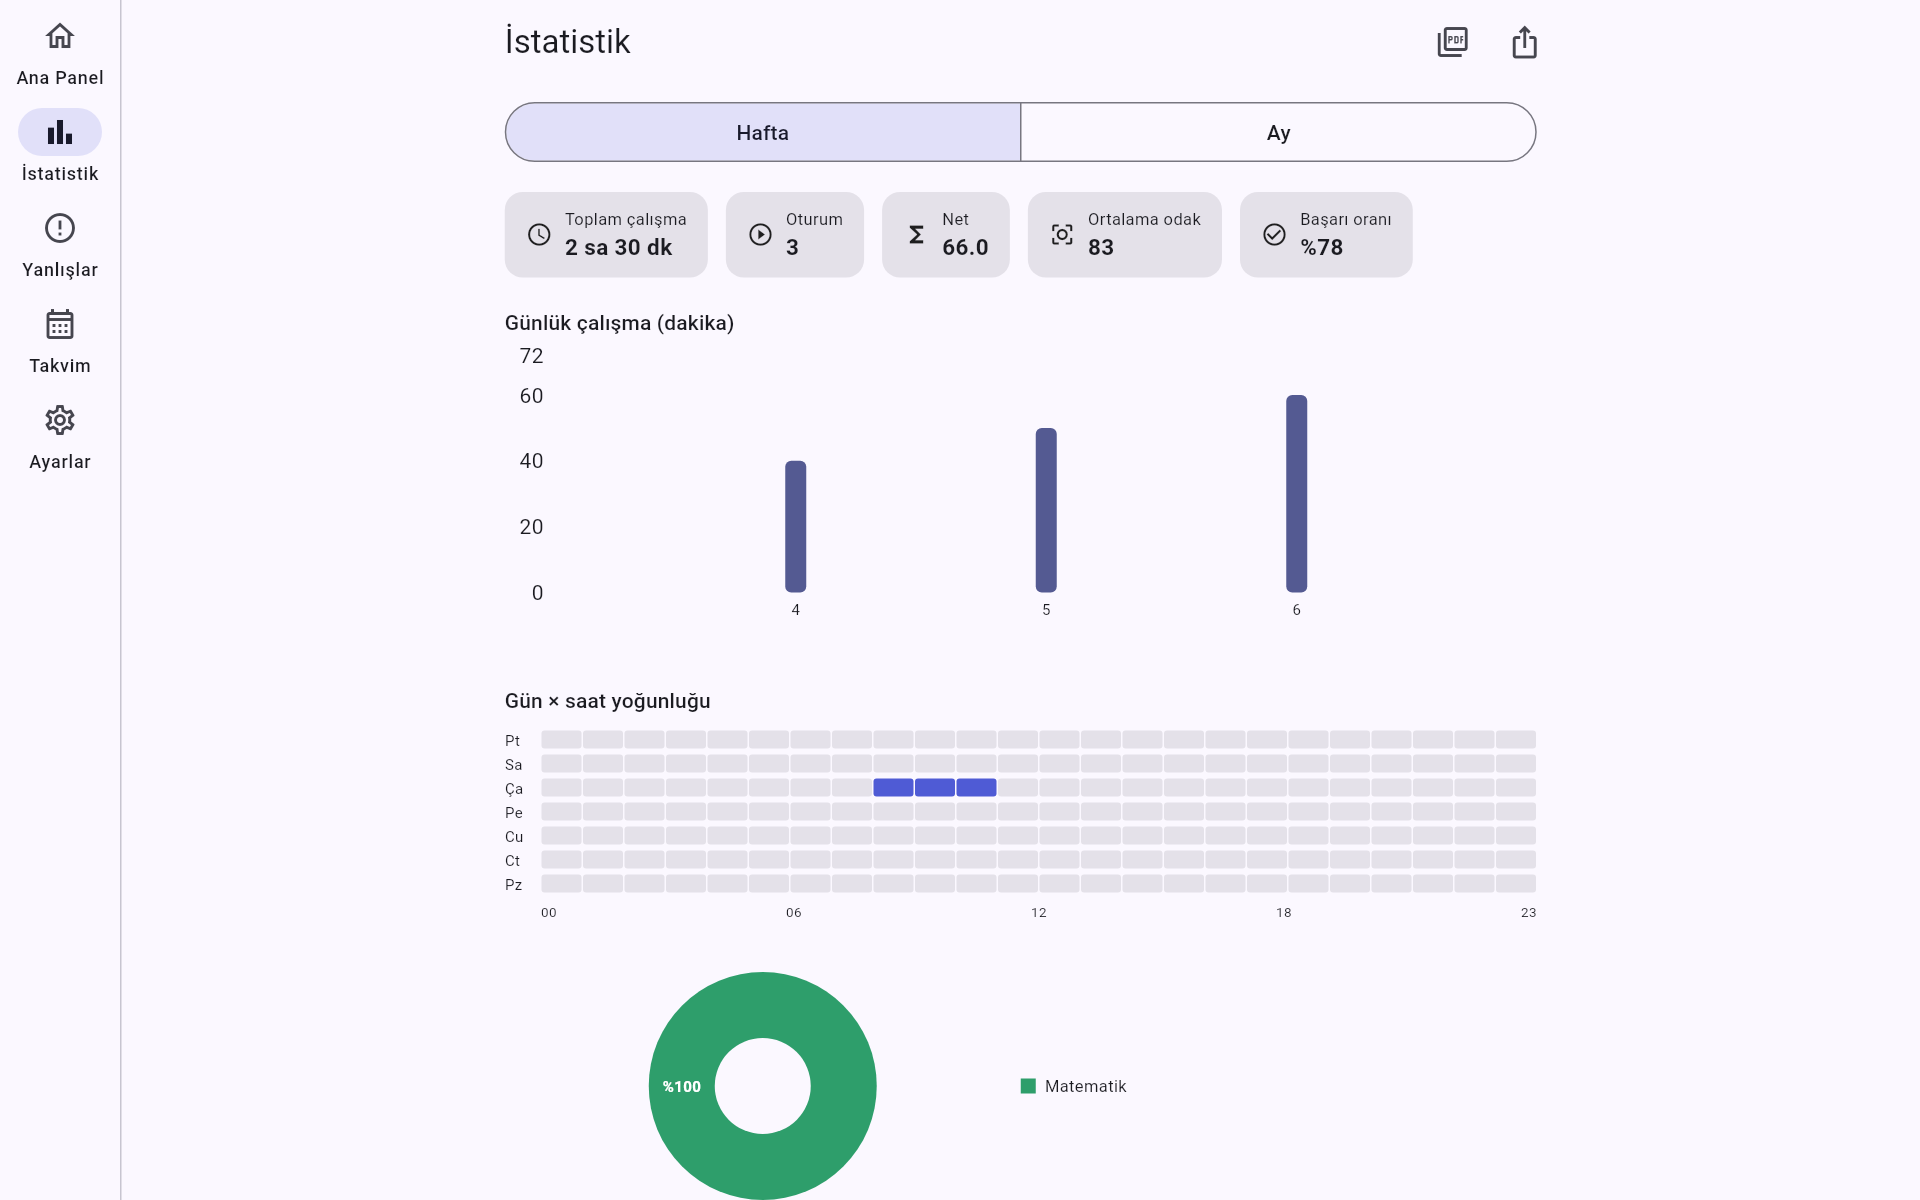
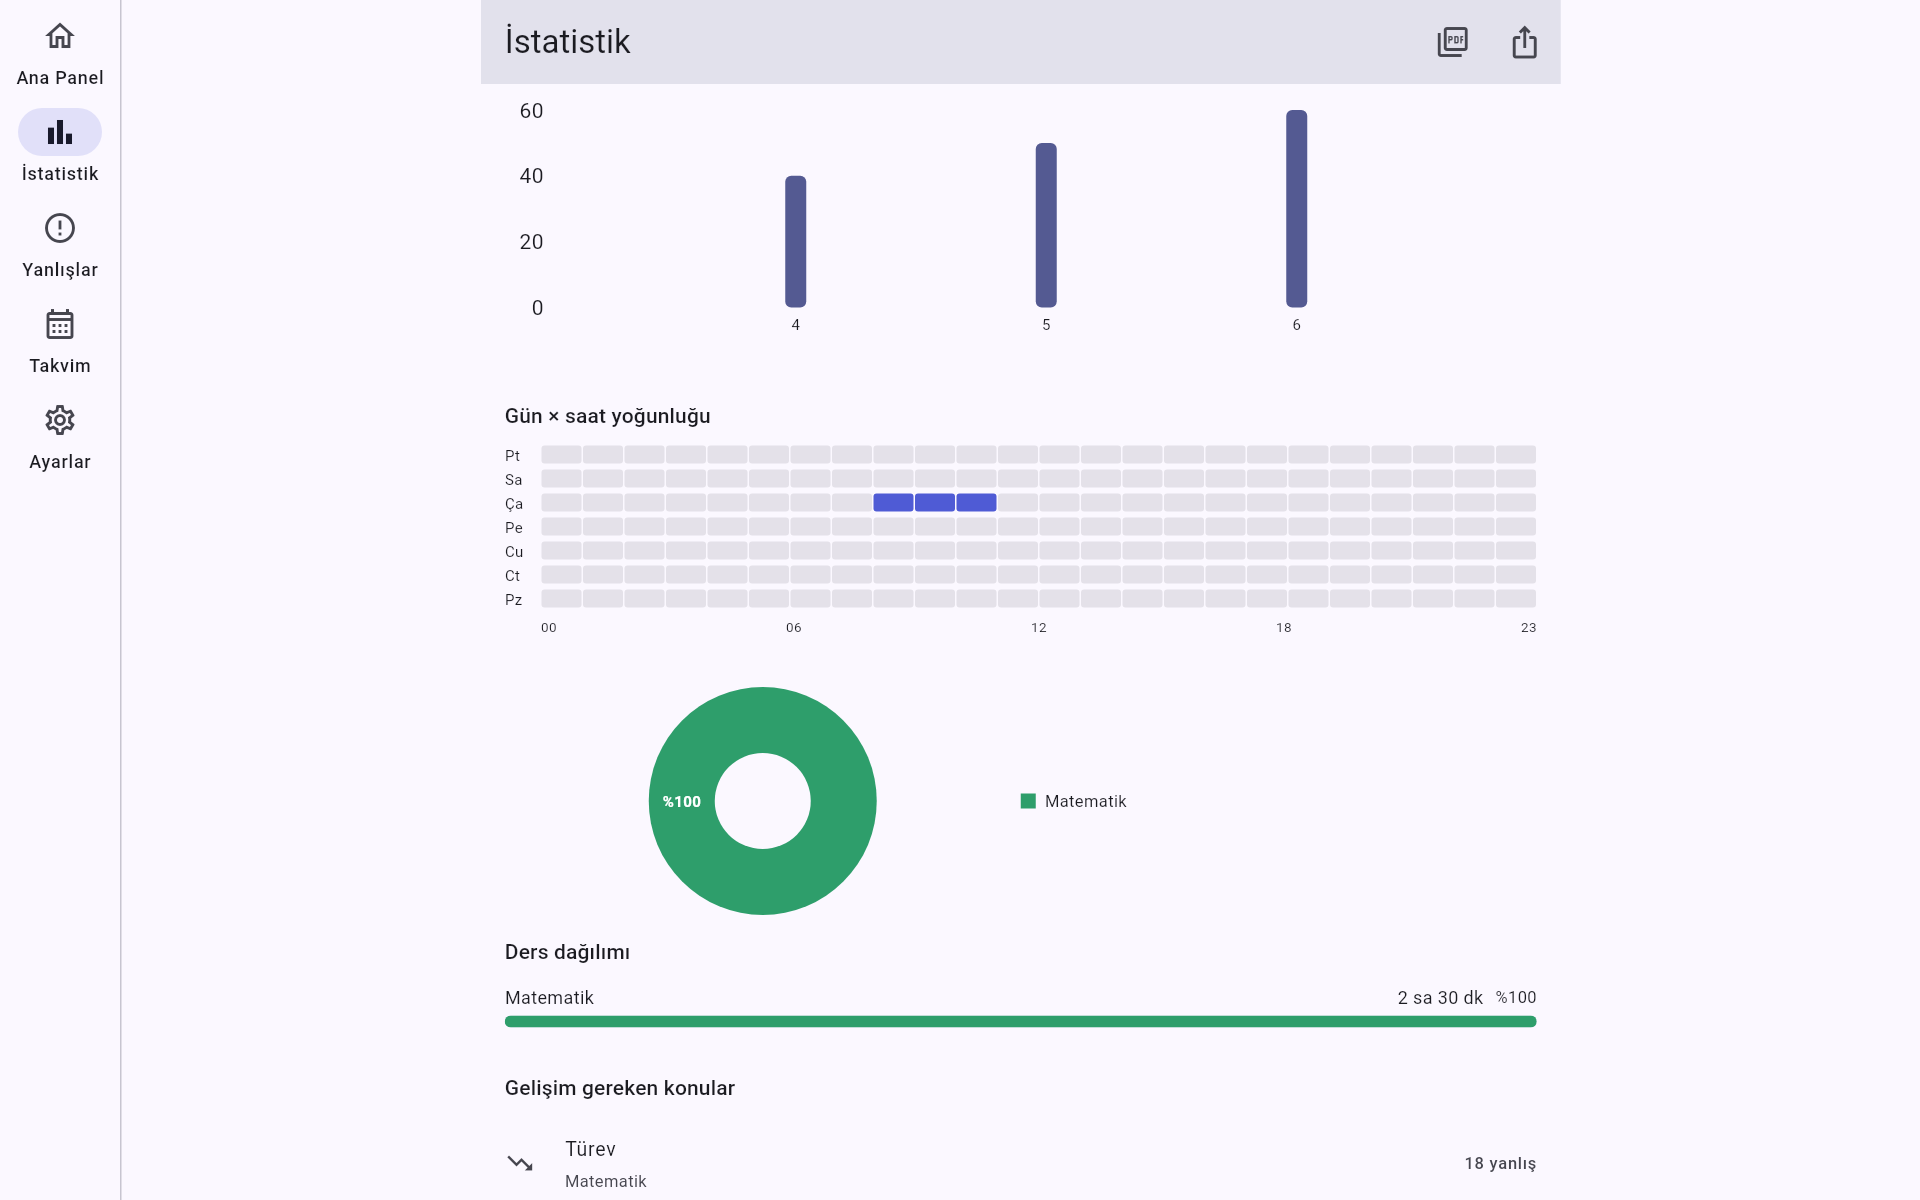
tablet_2: halka grafigi tam cerceveye alindi
Vitrin gorselinde alttaki ders dagilimi halkasi kesiliyordu — icerik
kaydirilabilir, gorunen alan halkanin ortasinda bitiyordu.

Duzeltme cozunurlukte degil CERCEVELEMEDE: store_shots_test istatistik
listesini cekimden once kaydiriyor. Scaffold + pinned AppBar oldugu icin
baslik yerinde kaliyor.

Miktar gozle ayarlandi:
  yok   -> halka kesik
  -600  -> halka tam ama ustteki cubuk grafik yarilaniyor (liste sonu)
  -190  -> halka tam · cubuk grafik butun · altta "Ders dagilimi" ve
           "Gelisim gereken konular" da kadrajda

Yuzey (1280x800) ve pixelRatio (1.5) degismedi; cikti yine 1920x1200.

8 gorselin tamami tazelendi, toplam 0.61 MB:
  icon 512x512 · feature 1024x500 · 4 telefon 1080x1920 (9:16)
  2 tablet 1920x1200 (8:5)
Play boyut kurali (kenar 320-3840): gecti.

test 1053 · analyze 0 · format 0 changed

Claude-Session: https://claude.ai/code/session_01SfQGRxcciLhudGvwGDpgyE

diff --git a/sinav_odak/test/qa/store_shots_test.dart b/sinav_odak/test/qa/store_shots_test.dart
@@ -1,6 +1,7 @@
 import 'dart:io';
 import 'dart:ui' as ui;
 
+import 'package:flutter/material.dart';
 import 'package:flutter/rendering.dart';
 import 'package:flutter_test/flutter_test.dart';
 import 'package:sinav_odak/core/router/routes.dart';
@@ -85,6 +86,7 @@ void main() {
     required double ratio,
     required String route,
     bool running = false,
+    bool scrollToEnd = false,
   }) async {
     await seedShowcase();
     if (running) {
@@ -93,6 +95,17 @@ void main() {
     final c = await pumpQaApp(tester, db, size: surface);
     if (route != Routes.home) {
       c.read(appRouterProviderForQa).go(route);
+      await tester.pumpAndSettle();
+    }
+    if (scrollToEnd) {
+      // Listenin SONUNA kaydır. `AppBar` sabit olduğu için başlık yerinde
+      // kalıyor; kazanılan tek şey alttaki içeriğin tam çerçeveye
+      // girmesi.
+      //
+      // Miktar GÖZLE ayarlandı: sona kadar (-600) kaydırınca üstteki
+      // çubuk grafik yarılanıyordu. -190 hem halkayı tam çerçeveye
+      // alıyor hem grafiği bütün bırakıyor.
+      await tester.drag(find.byType(ListView), const Offset(0, -190));
       await tester.pumpAndSettle();
     }
     await shoot(tester, file, ratio: ratio);
@@ -165,13 +178,18 @@ void main() {
     );
   });
 
-  testWidgets('tablet_2 — istatistik (yan ray)', (tester) async {
+  testWidgets('tablet_2 — istatistik (yan ray, halka tam görünür)',
+      (tester) async {
+    // İlk çekimde alttaki ders dağılımı halkası çerçeveden taşıyordu:
+    // içerik kaydırılabilir, görünen alan halkanın ortasında bitiyordu.
+    // Vitrin görselinde yarım kesilmiş grafik özensiz duruyor.
     await capture(
       tester,
       file: 'tablet_2.png',
       surface: tablet,
       ratio: tabletRatio,
       route: Routes.stats,
+      scrollToEnd: true,
     );
   });
 }

diff --git a/sinav_odak/V1_1_1.md b/sinav_odak/V1_1_1.md
@@ -467,3 +467,40 @@ $ flutter test    → +1053: All tests passed!
 $ flutter analyze → No issues found!
 $ dart format .   → 212 files (0 changed)
 ```
+
+---
+
+# EK 4 — `tablet_2` ÇERÇEVELEME
+
+Halka grafiği kesiliyordu; vitrin görselinde yarım grafik özensiz.
+
+Düzeltme çözünürlükte değil **çerçevelemede**: `store_shots_test`
+istatistik listesini çekimden önce kaydırıyor. `AppBar` sabit olduğu için
+başlık yerinde kalıyor.
+
+Miktar gözle ayarlandı:
+
+| Kaydırma | Sonuç |
+| --- | --- |
+| yok | halka **kesik** |
+| −600 (sona kadar) | halka tam, ama üstteki çubuk grafik **yarılanıyor** |
+| **−190** | halka tam · çubuk grafik bütün · altta "Ders dağılımı" ve "Gelişim gereken konular" da kadrajda |
+
+Yüzey (1280×800) ve pixelRatio (1.5) değişmedi — çıktı yine 1920×1200.
+
+## Son paket — 8 dosya, 0,61 MB
+
+| Dosya | Piksel | Oran |
+| --- | --- | --- |
+| `icon_512.png` | 512×512 | 1:1 |
+| `feature_1024x500.png` | 1024×500 | — |
+| `screen_1..4.png` | 1080×1920 | 9:16 |
+| `tablet_1..2.png` | 1920×1200 | 8:5 |
+
+Play boyut kuralı (kenar 320–3840): **geçti**.
+
+```
+$ flutter test    → +1053: All tests passed!
+$ flutter analyze → No issues found!
+$ dart format .   → 212 files (0 changed)
+```
